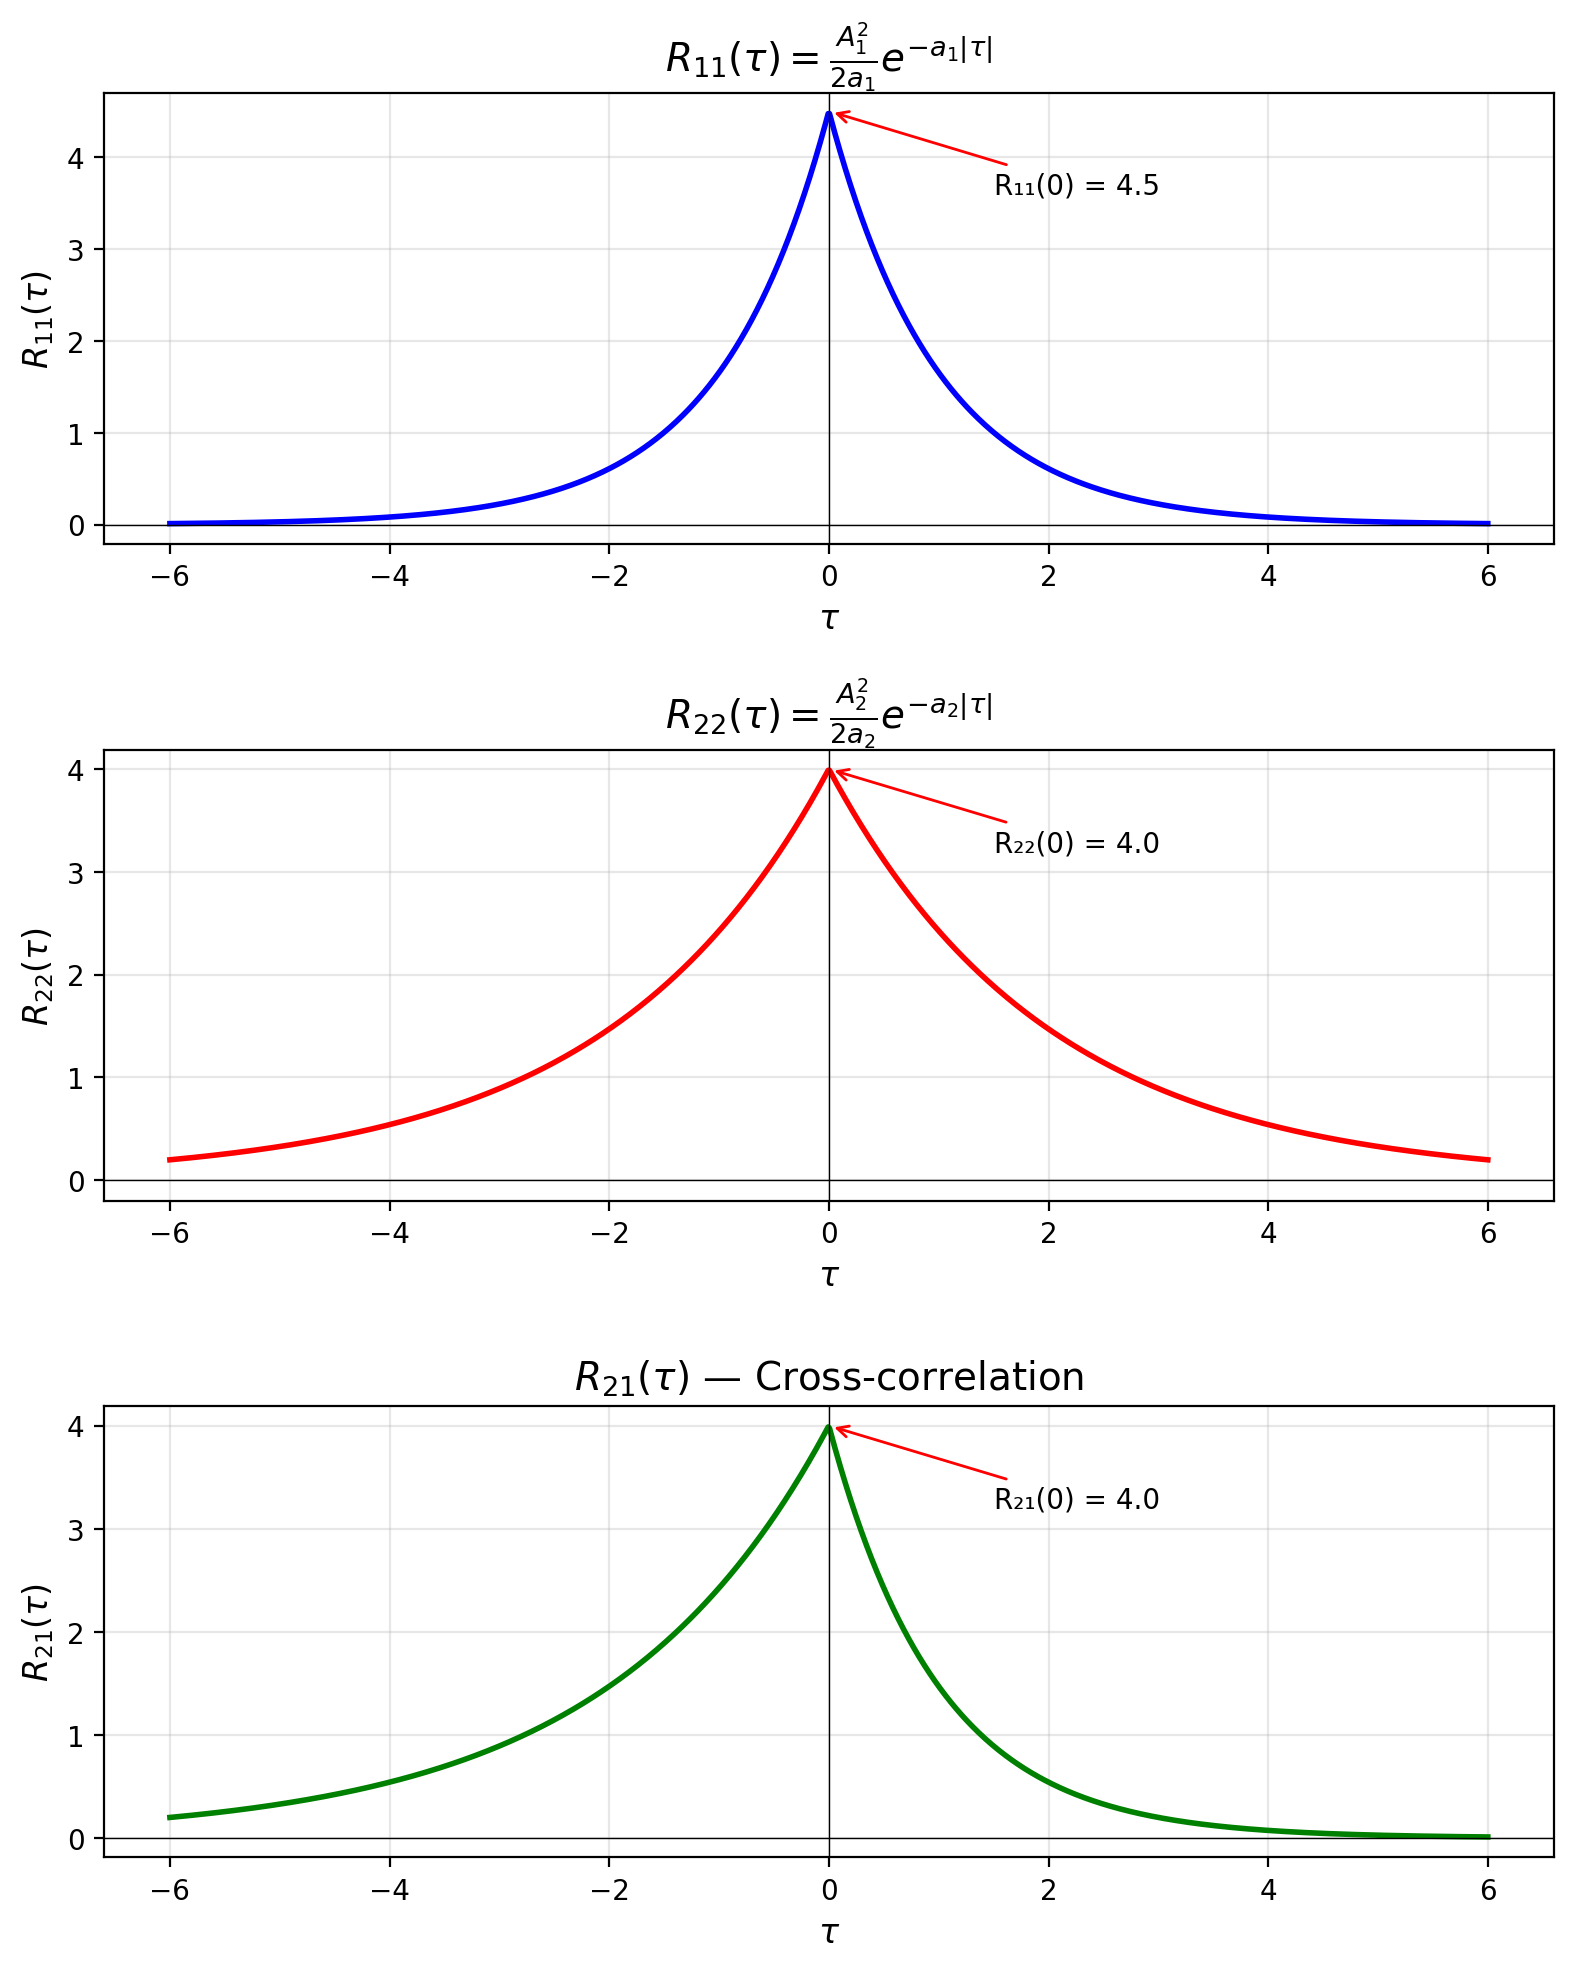
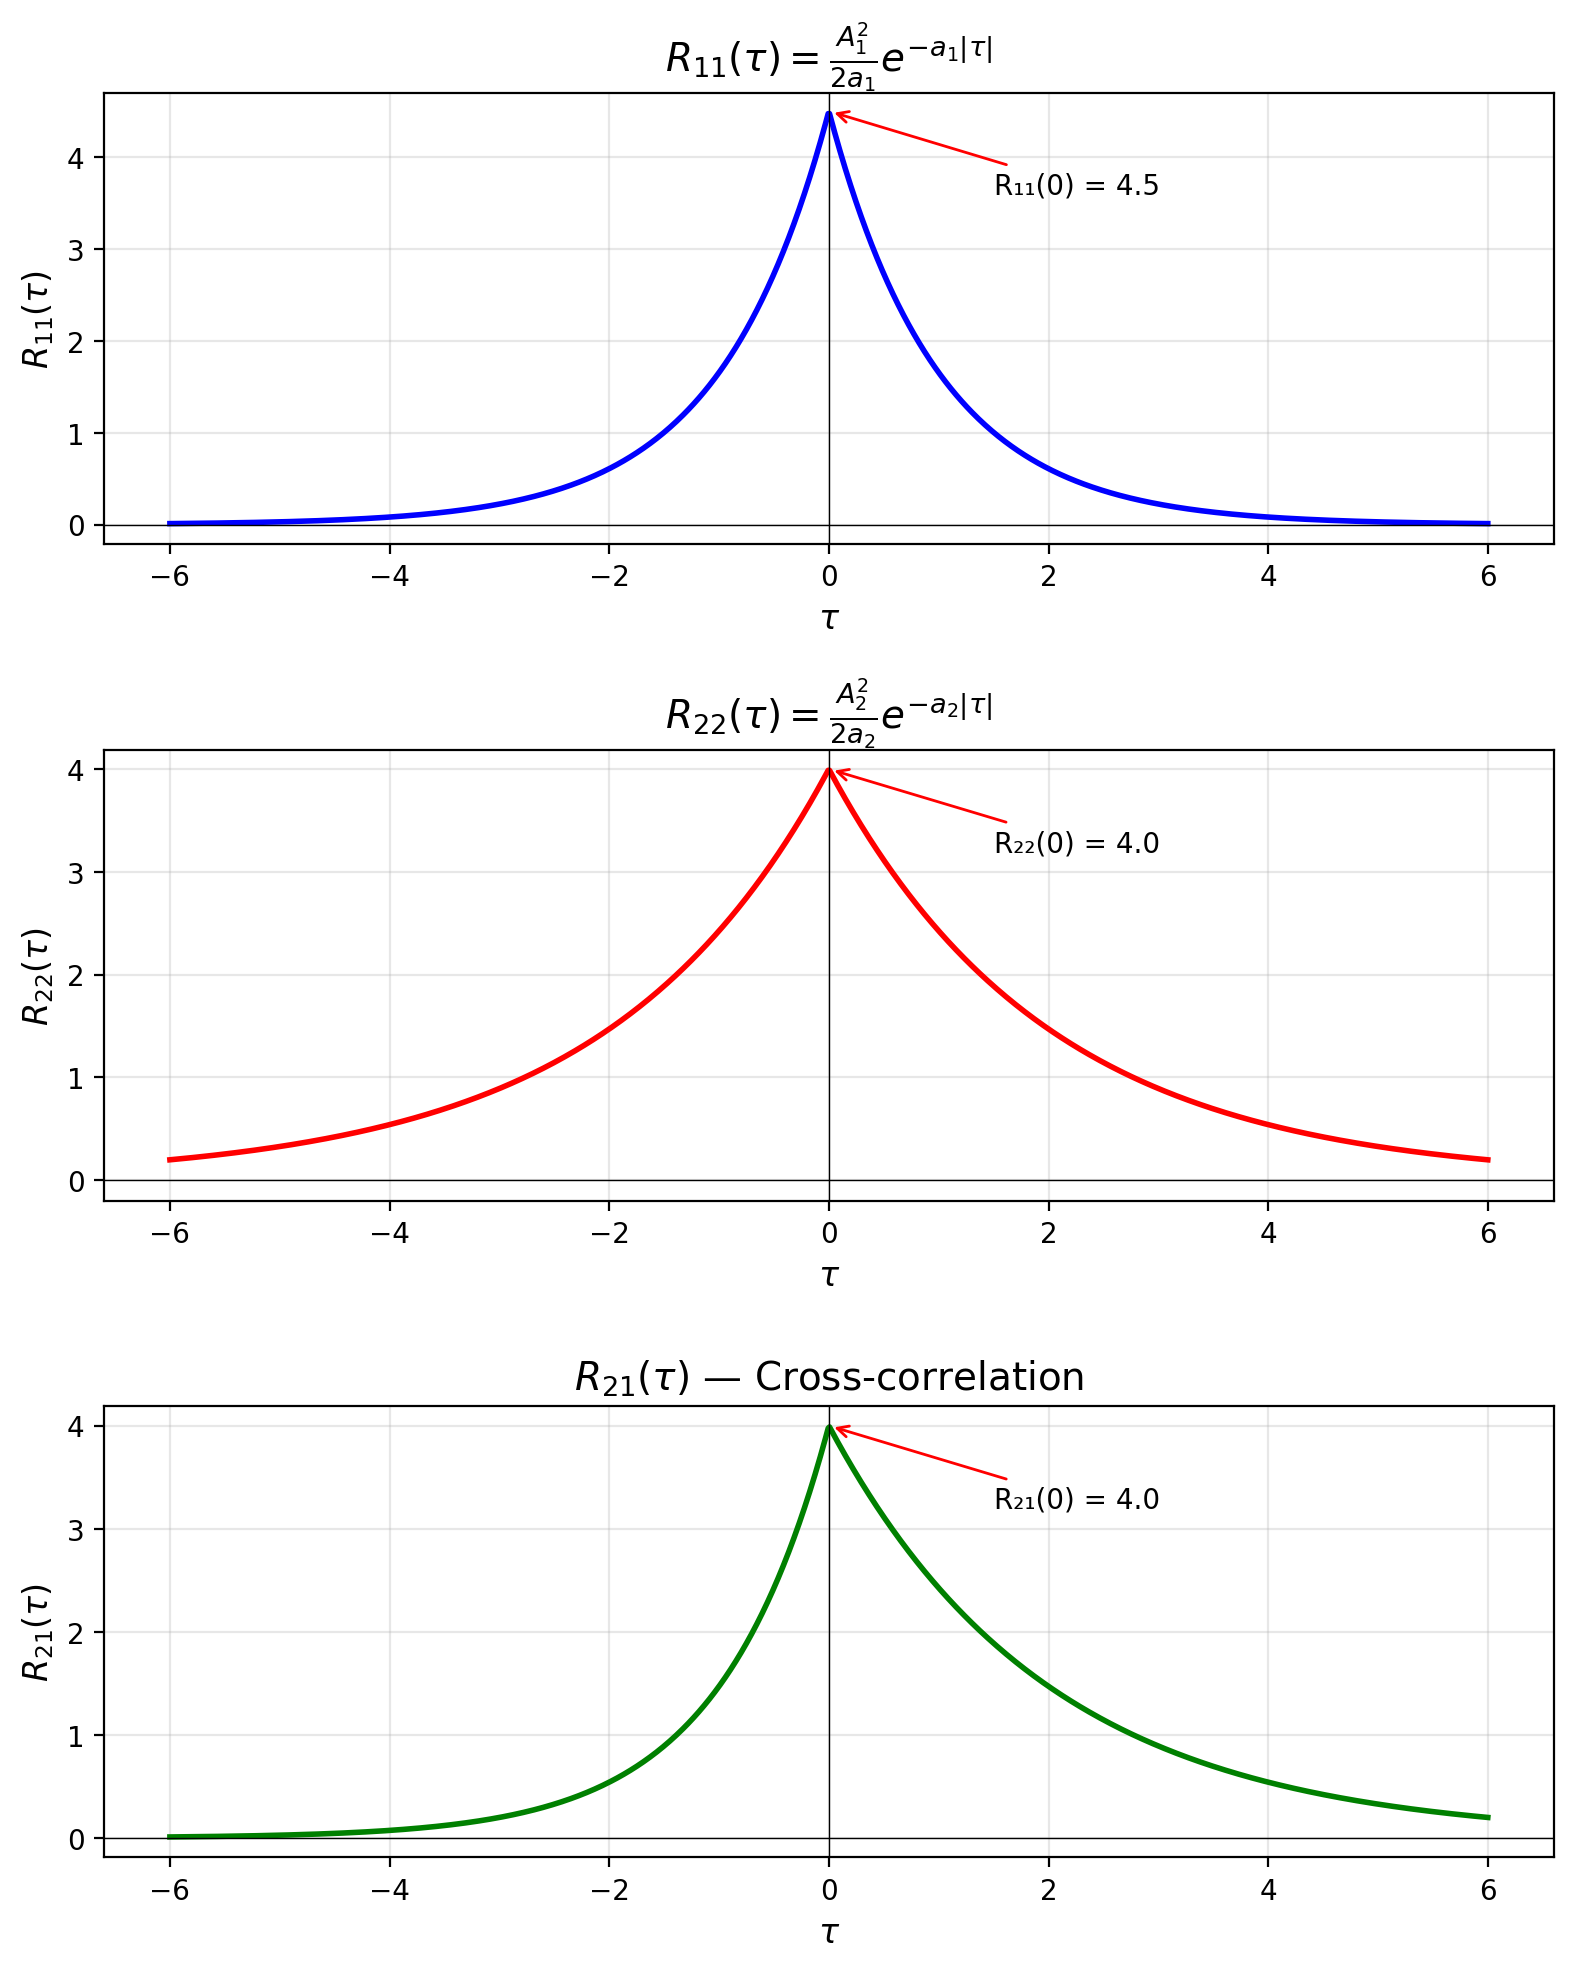
2026.04.29

diff --git a/II-kurs/SS/KP/solution.py b/II-kurs/SS/KP/solution.py
@@ -22,8 +22,8 @@ def generate_plots():
     R22 = (A2**2 / (2 * a2)) * np.exp(-a2 * np.abs(tau))
     R21 = np.where(
         tau >= 0,
-        (A1 * A2 / (a1 + a2)) * np.exp(-a1 * tau),
-        (A1 * A2 / (a1 + a2)) * np.exp(a2 * tau),
+        (A1 * A2 / (a1 + a2)) * np.exp(-a2 * tau),
+        (A1 * A2 / (a1 + a2)) * np.exp(a1 * tau),
     )
 
     fig, axes = plt.subplots(3, 1, figsize=(8, 10))
@@ -209,10 +209,10 @@ def build_document(plot_path, signals_path):
     add_paragraph(doc, '1. Използвани математически зависимости', bold=True, size=13, space_after=Pt(8), space_before=Pt(12))
 
     add_paragraph(doc, 'Автокорелационна функция на енергиен сигнал s(t):', size=12, space_after=Pt(4))
-    add_formula(doc, 'Rss(τ) = ∫₋∞^∞  s(t) · s(t + τ) dt')
+    add_formula(doc, 'Rss(τ) = ∫₋∞^∞  s(t) · s(t − τ) dt')
 
     add_paragraph(doc, 'Взаимнокорелационна функция на два енергийни сигнала:', size=12, space_after=Pt(4))
-    add_formula(doc, 'R₂₁(τ) = ∫₋∞^∞  s₂(t) · s₁(t + τ) dt')
+    add_formula(doc, 'R₂₁(τ) = ∫₋∞^∞  s₂(t) · s₁(t − τ) dt')
 
     add_paragraph(doc, 'където τ е времевото изместване, а s₁ е сигналът, който се измества.', size=12, space_after=Pt(4))
 
@@ -227,29 +227,28 @@ def build_document(plot_path, signals_path):
     add_formula(doc, 'S₁(t) = A₁ · e^(-a₁t),    t ≥ 0    (иначе S₁(t) = 0)')
 
     add_paragraph(doc, 'Прилагаме дефиницията за автокорелационна функция:', size=12, space_after=Pt(4))
-    add_formula(doc, 'R₁₁(τ) = ∫₋∞^∞  S₁(t) · S₁(t + τ) dt')
+    add_formula(doc, 'R₁₁(τ) = ∫₋∞^∞  S₁(t) · S₁(t − τ) dt')
 
     add_paragraph(doc, 'Интегрантът е ненулев само когато и двата аргумента са в областта на определение:', size=12, space_after=Pt(4))
     add_paragraph(doc, '• S₁(t) ≠ 0  ⟹  t ≥ 0', size=12, space_after=Pt(2))
-    add_paragraph(doc, '• S₁(t + τ) ≠ 0  ⟹  t + τ ≥ 0  ⟹  t ≥ -τ', size=12, space_after=Pt(8))
+    add_paragraph(doc, '• S₁(t − τ) ≠ 0  ⟹  t − τ ≥ 0  ⟹  t ≥ τ', size=12, space_after=Pt(8))
 
     # Case tau >= 0
     add_paragraph(doc, 'Случай 1: τ ≥ 0', bold=True, size=12, space_after=Pt(4), space_before=Pt(8))
-    add_paragraph(doc, 'Когато τ ≥ 0, условието t ≥ -τ е автоматично изпълнено за t ≥ 0, така че долната граница е 0:', size=12, space_after=Pt(4))
+    add_paragraph(doc, 'Когато τ ≥ 0, долната граница е max(0, τ) = τ:', size=12, space_after=Pt(4))
 
-    add_formula(doc, 'R₁₁(τ) = ∫₀^∞  A₁·e^(-a₁t) · A₁·e^(-a₁(t+τ)) dt')
-    add_formula(doc, '= A₁² · e^(-a₁τ) · ∫₀^∞  e^(-2a₁t) dt')
-    add_formula(doc, '= A₁² · e^(-a₁τ) · 1/(2a₁)')
+    add_formula(doc, 'R₁₁(τ) = ∫_τ^∞  A₁·e^(-a₁t) · A₁·e^(-a₁(t−τ)) dt')
+    add_formula(doc, '= A₁² · e^(a₁τ) · ∫_τ^∞  e^(-2a₁t) dt')
+    add_formula(doc, '= A₁² · e^(a₁τ) · e^(-2a₁τ) / (2a₁)')
     add_formula(doc, '= A₁² / (2a₁) · e^(-a₁τ)')
 
     # Case tau < 0
     add_paragraph(doc, 'Случай 2: τ < 0', bold=True, size=12, space_after=Pt(4), space_before=Pt(8))
-    add_paragraph(doc, 'Когато τ < 0, имаме -τ > 0, така че долната граница е -τ:', size=12, space_after=Pt(4))
+    add_paragraph(doc, 'Когато τ < 0, условието t ≥ τ е автоматично изпълнено за t ≥ 0, така че долната граница е 0:', size=12, space_after=Pt(4))
 
-    add_formula(doc, 'R₁₁(τ) = ∫₋τ^∞  A₁·e^(-a₁t) · A₁·e^(-a₁(t+τ)) dt')
-    add_formula(doc, '= A₁² · e^(-a₁τ) · ∫₋τ^∞  e^(-2a₁t) dt')
-    add_formula(doc, '= A₁² · e^(-a₁τ) · e^(-2a₁·(-τ)) / (2a₁)')
-    add_formula(doc, '= A₁² · e^(-a₁τ) · e^(2a₁τ) / (2a₁)')
+    add_formula(doc, 'R₁₁(τ) = ∫₀^∞  A₁·e^(-a₁t) · A₁·e^(-a₁(t−τ)) dt')
+    add_formula(doc, '= A₁² · e^(a₁τ) · ∫₀^∞  e^(-2a₁t) dt')
+    add_formula(doc, '= A₁² · e^(a₁τ) · 1/(2a₁)')
     add_formula(doc, '= A₁² / (2a₁) · e^(a₁τ)')
 
     add_paragraph(doc, 'Тъй като за τ ≥ 0 имаме e^(-a₁τ), а за τ < 0 имаме e^(a₁τ), и двата случая се обединяват в:', size=12, space_after=Pt(4))
@@ -272,22 +271,22 @@ def build_document(plot_path, signals_path):
     add_formula(doc, 'S₂(t) = A₂ · e^(-a₂t),    t ≥ 0    (иначе S₂(t) = 0)')
 
     add_paragraph(doc, 'Процедурата е аналогична на задача а). Прилагаме дефиницията:', size=12, space_after=Pt(4))
-    add_formula(doc, 'R₂₂(τ) = ∫₋∞^∞  S₂(t) · S₂(t + τ) dt')
+    add_formula(doc, 'R₂₂(τ) = ∫₋∞^∞  S₂(t) · S₂(t − τ) dt')
 
     add_paragraph(doc, 'Случай 1: τ ≥ 0', bold=True, size=12, space_after=Pt(4), space_before=Pt(8))
-    add_paragraph(doc, 'Долната граница на интегриране е 0:', size=12, space_after=Pt(4))
+    add_paragraph(doc, 'Долната граница на интегриране е max(0, τ) = τ:', size=12, space_after=Pt(4))
 
-    add_formula(doc, 'R₂₂(τ) = ∫₀^∞  A₂·e^(-a₂t) · A₂·e^(-a₂(t+τ)) dt')
-    add_formula(doc, '= A₂² · e^(-a₂τ) · ∫₀^∞  e^(-2a₂t) dt')
-    add_formula(doc, '= A₂² · e^(-a₂τ) · 1/(2a₂)')
+    add_formula(doc, 'R₂₂(τ) = ∫_τ^∞  A₂·e^(-a₂t) · A₂·e^(-a₂(t−τ)) dt')
+    add_formula(doc, '= A₂² · e^(a₂τ) · ∫_τ^∞  e^(-2a₂t) dt')
+    add_formula(doc, '= A₂² · e^(a₂τ) · e^(-2a₂τ) / (2a₂)')
     add_formula(doc, '= A₂² / (2a₂) · e^(-a₂τ)')
 
     add_paragraph(doc, 'Случай 2: τ < 0', bold=True, size=12, space_after=Pt(4), space_before=Pt(8))
-    add_paragraph(doc, 'Долната граница на интегриране е -τ:', size=12, space_after=Pt(4))
+    add_paragraph(doc, 'Условието t ≥ τ е автоматично изпълнено за t ≥ 0, така че долната граница е 0:', size=12, space_after=Pt(4))
 
-    add_formula(doc, 'R₂₂(τ) = ∫₋τ^∞  A₂·e^(-a₂t) · A₂·e^(-a₂(t+τ)) dt')
-    add_formula(doc, '= A₂² · e^(-a₂τ) · ∫₋τ^∞  e^(-2a₂t) dt')
-    add_formula(doc, '= A₂² · e^(-a₂τ) · e^(2a₂τ) / (2a₂)')
+    add_formula(doc, 'R₂₂(τ) = ∫₀^∞  A₂·e^(-a₂t) · A₂·e^(-a₂(t−τ)) dt')
+    add_formula(doc, '= A₂² · e^(a₂τ) · ∫₀^∞  e^(-2a₂t) dt')
+    add_formula(doc, '= A₂² · e^(a₂τ) · 1/(2a₂)')
     add_formula(doc, '= A₂² / (2a₂) · e^(a₂τ)')
 
     add_paragraph(doc, 'Обединявайки двата случая:', size=12, space_after=Pt(4))
@@ -307,34 +306,33 @@ def build_document(plot_path, signals_path):
     add_paragraph(doc, '4. Задача в) — Взаимнокорелационна функция R₂₁(τ)', bold=True, size=13, space_after=Pt(8), space_before=Pt(16))
 
     add_paragraph(doc, 'Търсим взаимнокорелационната функция на S₂(t) и S₁(t), където S₁ е сигналът, който се измества във времето:', size=12, space_after=Pt(4))
-    add_formula(doc, 'R₂₁(τ) = ∫₋∞^∞  S₂(t) · S₁(t + τ) dt')
+    add_formula(doc, 'R₂₁(τ) = ∫₋∞^∞  S₂(t) · S₁(t − τ) dt')
 
     add_paragraph(doc, 'Условия за ненулев интегрант:', size=12, space_after=Pt(4))
     add_paragraph(doc, '• S₂(t) ≠ 0  ⟹  t ≥ 0', size=12, space_after=Pt(2))
-    add_paragraph(doc, '• S₁(t + τ) ≠ 0  ⟹  t ≥ -τ', size=12, space_after=Pt(8))
+    add_paragraph(doc, '• S₁(t − τ) ≠ 0  ⟹  t ≥ τ', size=12, space_after=Pt(8))
 
     add_paragraph(doc, 'Случай 1: τ ≥ 0', bold=True, size=12, space_after=Pt(4), space_before=Pt(8))
-    add_paragraph(doc, 'Долната граница е max(0, -τ) = 0:', size=12, space_after=Pt(4))
+    add_paragraph(doc, 'Долната граница е max(0, τ) = τ:', size=12, space_after=Pt(4))
 
-    add_formula(doc, 'R₂₁(τ) = ∫₀^∞  A₂·e^(-a₂t) · A₁·e^(-a₁(t+τ)) dt')
-    add_formula(doc, '= A₁·A₂ · e^(-a₁τ) · ∫₀^∞  e^(-(a₁+a₂)t) dt')
-    add_formula(doc, '= A₁·A₂ · e^(-a₁τ) · 1/(a₁ + a₂)')
-    add_formula(doc, '= A₁·A₂ / (a₁ + a₂) · e^(-a₁τ)')
+    add_formula(doc, 'R₂₁(τ) = ∫_τ^∞  A₂·e^(-a₂t) · A₁·e^(-a₁(t−τ)) dt')
+    add_formula(doc, '= A₁·A₂ · e^(a₁τ) · ∫_τ^∞  e^(-(a₁+a₂)t) dt')
+    add_formula(doc, '= A₁·A₂ · e^(a₁τ) · e^(-(a₁+a₂)τ) / (a₁ + a₂)')
+    add_formula(doc, '= A₁·A₂ / (a₁ + a₂) · e^(-a₂τ)')
 
     add_paragraph(doc, 'Случай 2: τ < 0', bold=True, size=12, space_after=Pt(4), space_before=Pt(8))
-    add_paragraph(doc, 'Долната граница е max(0, -τ) = -τ (тъй като -τ > 0):', size=12, space_after=Pt(4))
+    add_paragraph(doc, 'Долната граница е max(0, τ) = 0 (тъй като τ < 0):', size=12, space_after=Pt(4))
 
-    add_formula(doc, 'R₂₁(τ) = ∫₋τ^∞  A₂·e^(-a₂t) · A₁·e^(-a₁(t+τ)) dt')
-    add_formula(doc, '= A₁·A₂ · e^(-a₁τ) · ∫₋τ^∞  e^(-(a₁+a₂)t) dt')
-    add_formula(doc, '= A₁·A₂ · e^(-a₁τ) · e^(-(a₁+a₂)·(-τ)) / (a₁ + a₂)')
-    add_formula(doc, '= A₁·A₂ · e^(-a₁τ) · e^((a₁+a₂)τ) / (a₁ + a₂)')
-    add_formula(doc, '= A₁·A₂ / (a₁ + a₂) · e^(a₂τ)')
+    add_formula(doc, 'R₂₁(τ) = ∫₀^∞  A₂·e^(-a₂t) · A₁·e^(-a₁(t−τ)) dt')
+    add_formula(doc, '= A₁·A₂ · e^(a₁τ) · ∫₀^∞  e^(-(a₁+a₂)t) dt')
+    add_formula(doc, '= A₁·A₂ · e^(a₁τ) · 1/(a₁ + a₂)')
+    add_formula(doc, '= A₁·A₂ / (a₁ + a₂) · e^(a₁τ)')
 
     add_paragraph(doc, 'Крайният резултат:', size=12, space_after=Pt(4))
 
     p = doc.add_paragraph()
     p.alignment = WD_ALIGN_PARAGRAPH.CENTER
-    run = p.add_run('R₂₁(τ) = A₁·A₂ / (a₁+a₂) · e^(-a₁τ),    τ ≥ 0')
+    run = p.add_run('R₂₁(τ) = A₁·A₂ / (a₁+a₂) · e^(-a₂τ),    τ ≥ 0')
     run.bold = True
     run.italic = True
     run.font.size = Pt(13)
@@ -344,7 +342,7 @@ def build_document(plot_path, signals_path):
 
     p = doc.add_paragraph()
     p.alignment = WD_ALIGN_PARAGRAPH.CENTER
-    run = p.add_run('R₂₁(τ) = A₁·A₂ / (a₁+a₂) · e^(a₂τ),     τ < 0')
+    run = p.add_run('R₂₁(τ) = A₁·A₂ / (a₁+a₂) · e^(a₁τ),     τ < 0')
     run.bold = True
     run.italic = True
     run.font.size = Pt(13)
@@ -352,7 +350,7 @@ def build_document(plot_path, signals_path):
     p.paragraph_format.space_after = Pt(12)
     p.paragraph_format.space_before = Pt(4)
 
-    add_paragraph(doc, 'Забележка: За разлика от автокорелационните функции, взаимнокорелационната функция НЕ е четна. Тя е непрекъсната в τ = 0, където стойността е R₂₁(0) = A₁·A₂/(a₁+a₂), но скоростта на спадане е различна за положителни и отрицателни τ (определя се от a₁ и a₂ съответно).', size=11, italic=True, space_after=Pt(12))
+    add_paragraph(doc, 'Забележка: За разлика от автокорелационните функции, взаимнокорелационната функция НЕ е четна. Тя е непрекъсната в τ = 0, където стойността е R₂₁(0) = A₁·A₂/(a₁+a₂), но скоростта на спадане е различна за положителни и отрицателни τ (определя се от a₂ и a₁ съответно).', size=11, italic=True, space_after=Pt(12))
 
     # --- Task d) Plots ---
     doc.add_page_break()
@@ -373,7 +371,7 @@ def build_document(plot_path, signals_path):
 
     add_paragraph(doc, 'От графиките се наблюдава:', size=12, space_after=Pt(4))
     add_paragraph(doc, '• Автокорелационните функции R₁₁(τ) и R₂₂(τ) са четни (симетрични спрямо τ = 0) и имат максимум при τ = 0, което е характерно свойство на автокорелационните функции.', size=12, space_after=Pt(2))
-    add_paragraph(doc, '• Взаимнокорелационната функция R₂₁(τ) НЕ е четна — скоростта на спадане е различна за τ > 0 (определя се от a₁) и за τ < 0 (определя се от a₂).', size=12, space_after=Pt(2))
+    add_paragraph(doc, '• Взаимнокорелационната функция R₂₁(τ) НЕ е четна — скоростта на спадане е различна за τ > 0 (определя се от a₂) и за τ < 0 (определя се от a₁).', size=12, space_after=Pt(2))
     add_paragraph(doc, '• Всички корелационни функции спадат експоненциално към нула за |τ| → ∞.', size=12, space_after=Pt(12))
 
     # --- Appendix: Source code ---
@@ -399,8 +397,8 @@ R22 = (A2**2 / (2*a2)) * np.exp(-a2 * np.abs(tau))
 # Cross-correlation R21
 R21 = np.where(
     tau >= 0,
-    (A1*A2 / (a1+a2)) * np.exp(-a1 * tau),
-    (A1*A2 / (a1+a2)) * np.exp(a2 * tau),
+    (A1*A2 / (a1+a2)) * np.exp(-a2 * tau),
+    (A1*A2 / (a1+a2)) * np.exp(a1 * tau),
 )
 
 fig, axes = plt.subplots(3, 1, figsize=(8, 10))